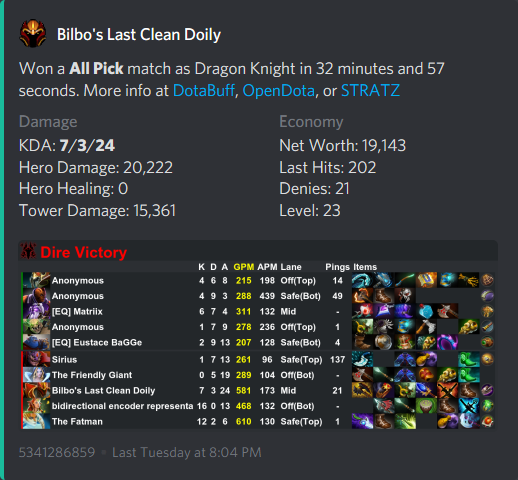
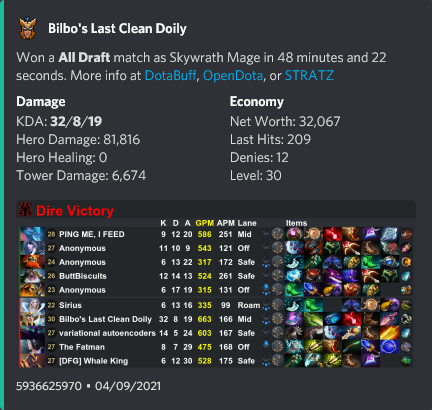
updated readme images

diff --git a/README.md b/README.md
@@ -162,9 +162,9 @@ Commands to help manage mangobyte on your server/guild
 
 ![hero_brew](/resource/images/readme/hero_brew.png)
 
-`?ability black hole`
+`?ability dream coil`
 
-![ability_black_hole](/resource/images/readme/ability_black_hole.png)
+![ability_dream_coil](/resource/images/readme/ability_dream_coil.png)
 
 `?item silver edge`
 
@@ -174,13 +174,17 @@ Commands to help manage mangobyte on your server/guild
 
 <img width="600px" src="/resource/images/readme/herotable_lvl20_effhp.png"/>
 
-`?lastmatch`
+`?lastmatch as skywrath this patch`
 
 ![lastmatch](/resource/images/readme/lastmatch.png)
 
 `?playerstats`
 
 ![playerstats](/resource/images/readme/playerstats.png)
+
+`?twenty`
+
+![twenty](/resource/images/readme/twenty.png)
 
 `?laning`
 
